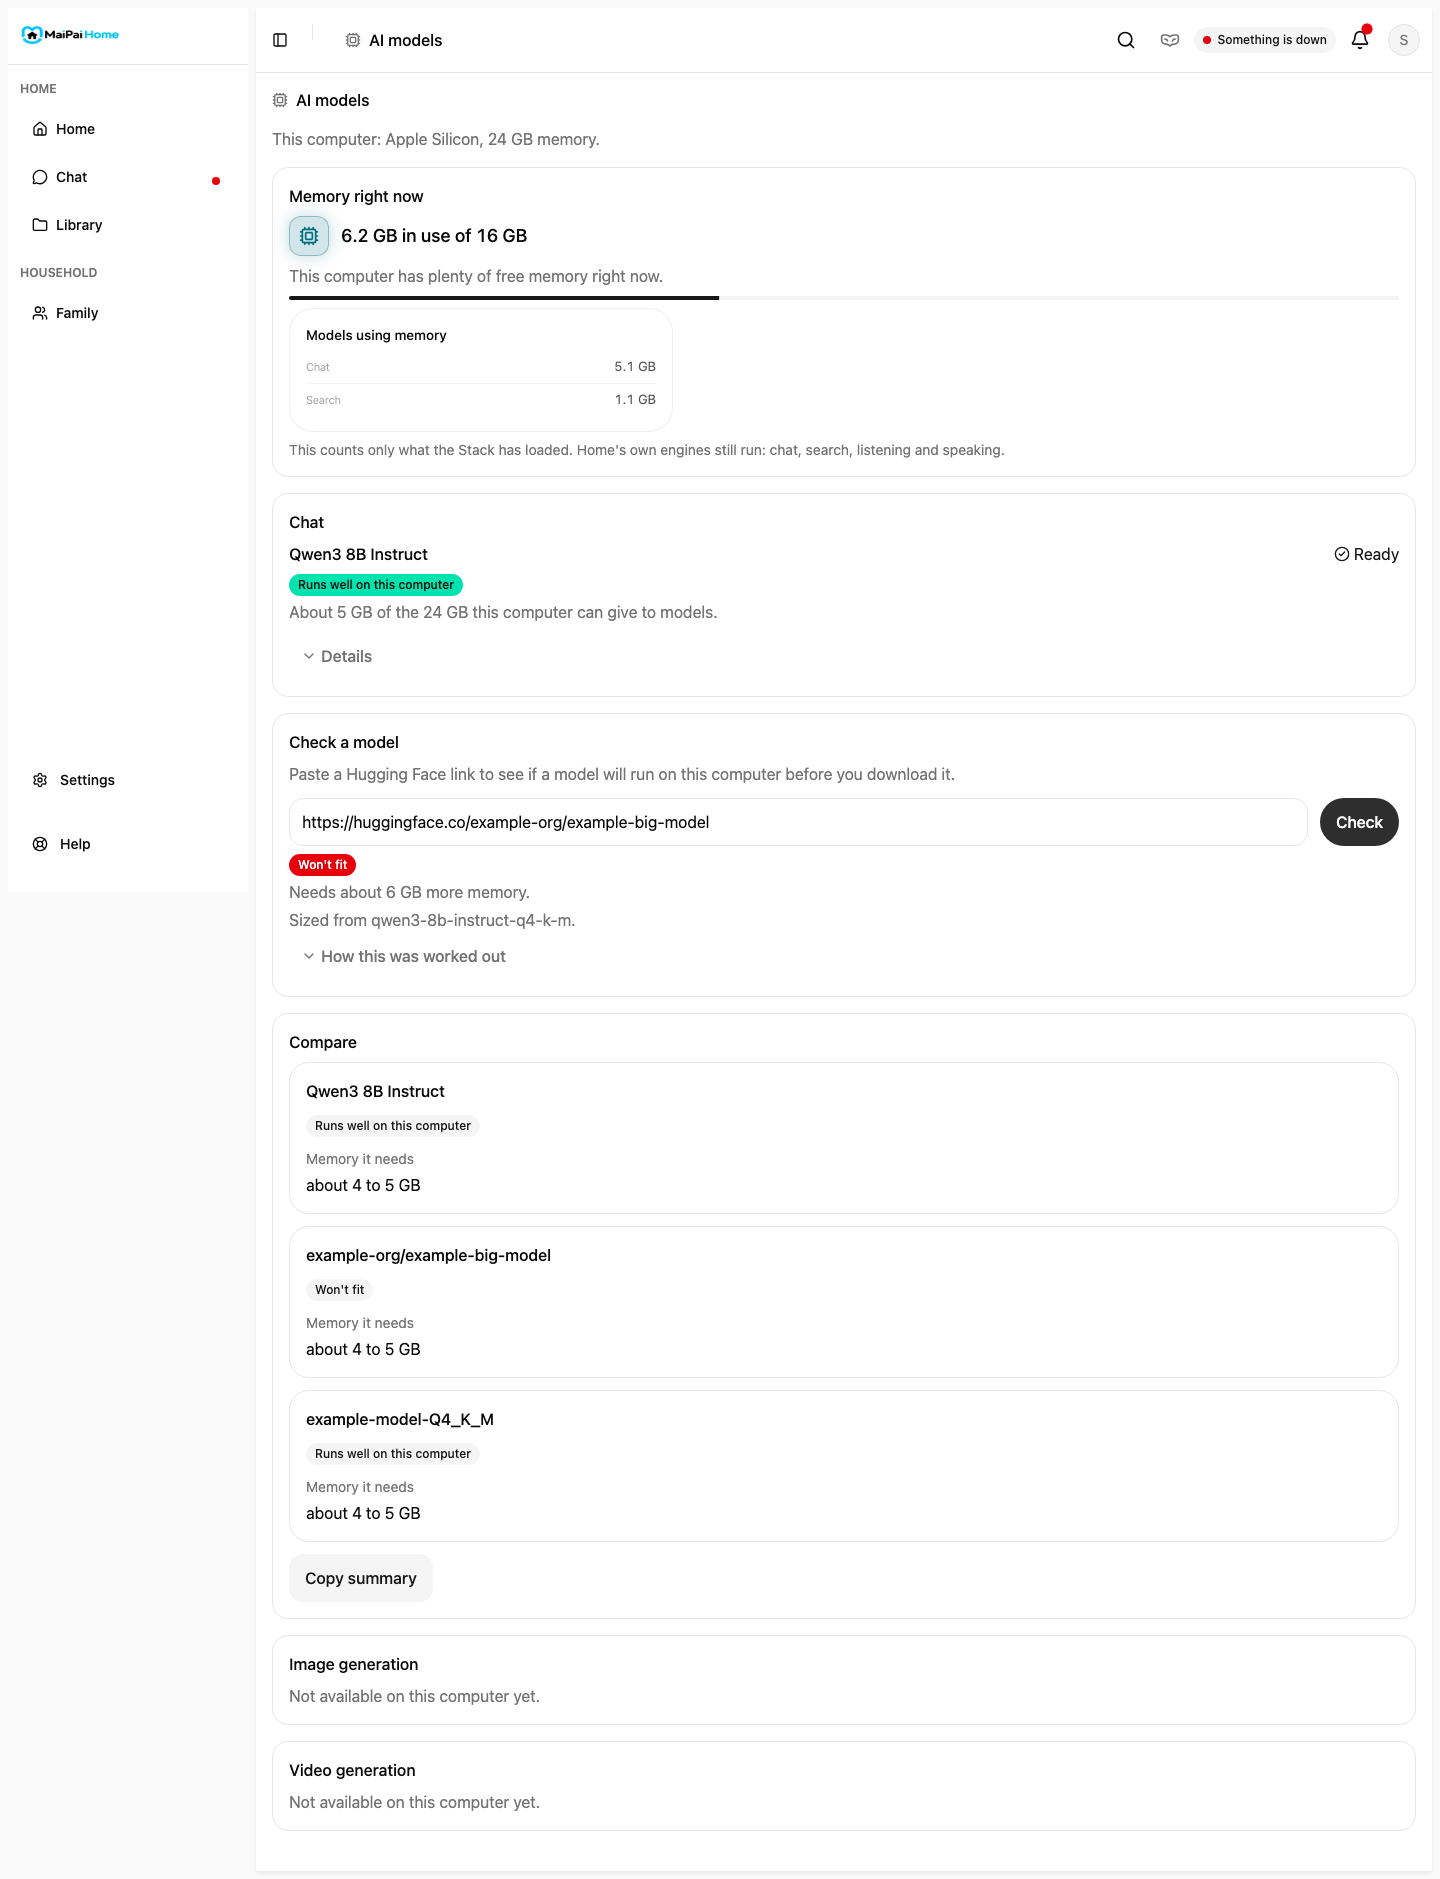
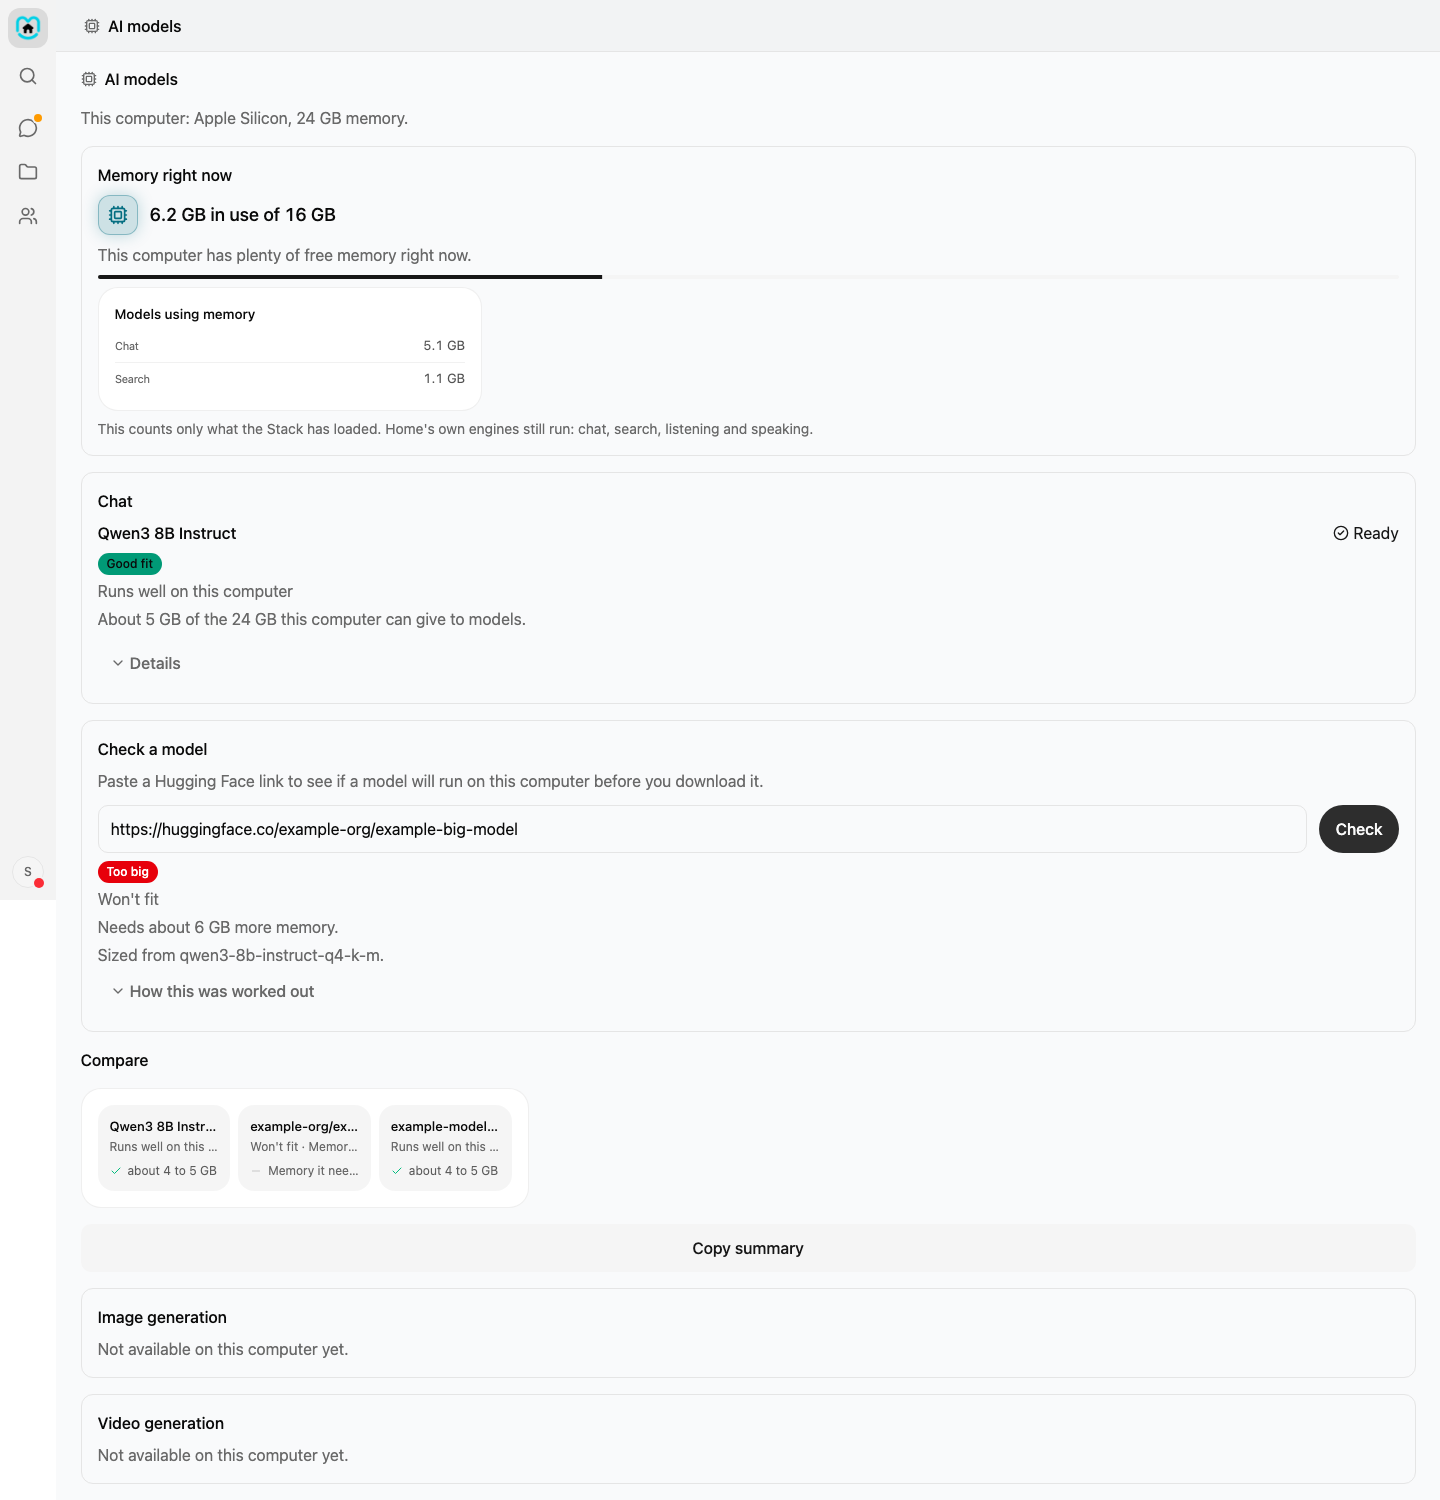
Adopt ComparisonCard on AI models page

diff --git a/frontend/src/apps/settings/ModelsSection.tsx b/frontend/src/apps/settings/ModelsSection.tsx
@@ -6,12 +6,12 @@ import { Input } from "@maipai/ui/src/ui/input";
 import { Textarea } from "@maipai/ui/src/ui/textarea";
 import { getIcon } from "@maipai/ui/src/icons";
 import { IconTile } from "@maipai/ui/src/primitives/IconTile";
+import { ComparisonCard } from "@maipai/ui/src/elements/comparison-card";
 import { api, ApiError, type HardwareInfo, type ModelFit } from "@/lib/api";
 import { formatBytes } from "@/apps/settings/formatBytes";
 import { useFitPlan } from "@/lib/useFitPlan";
 import { modelLinkName, parseModelLink } from "@/lib/modelLink";
 import { SpecSheet } from "@maipai/ui/src/elements/spec-sheet";
-import { Card } from "@maipai/ui/src/ui/card";
 import { Alert, AlertDescription, AlertTitle } from "@maipai/ui/src/dashboard/components/ui/alert";
 import { describeFitPlan, describeHomeOwnedRoles, fitBadgeWord, fitSourceSentence, type FitPanelRow } from "@/lib/fitPanel";
 import type { ComputerMemoryResponse } from "@/lib/api";
@@ -84,7 +84,7 @@ export function ModelsSection() {
             fitPlan={recommendedFit}
           />
           <CheckModelCard onChecked={(name, response) => setChecked((items) => [{ name, response }, ...items.filter((item) => item.name !== name)].slice(0, 3))} />
-          {recommended ? <CompareCard recommended={{ name: recommended.model.label, response: recommendedFit.response?.plan ? recommendedFit.response : null }} checked={checked} hardware={hardware} /> : null}
+          {recommended ? <ModelComparison recommended={{ name: recommended.model.label, response: recommendedFit.response?.plan ? recommendedFit.response : null }} checked={checked} hardware={hardware} /> : null}
           <PlannedRoleCard title="Image generation" fits={imageFits} />
           <PlannedRoleCard title="Video generation" fits={videoFits} />
         </div>
@@ -224,7 +224,7 @@ function FitPanel({ response }: { response: FitPlanResponse }) {
   return <div className="flex flex-col gap-3 pt-2"><SpecSheet title="Fit details" rows={rows.map(({ label, value }) => ({ label, value }))} visibleCount={rows.length} />{rows.filter((row) => row.source).map((row) => <FitSource key={row.label} row={row} />)}{remedy ? <Alert><AlertTitle>What would help?</AlertTitle><AlertDescription>{remedy}</AlertDescription></Alert> : null}</div>;
 }
 
-function CompareCard({ recommended, checked, hardware }: { recommended: { name: string; response: FitPlanResponse | null }; checked: Array<{ name: string; response: FitPlanResponse }>; hardware: HardwareInfo | null }) {
+function ModelComparison({ recommended, checked, hardware }: { recommended: { name: string; response: FitPlanResponse | null }; checked: Array<{ name: string; response: FitPlanResponse }>; hardware: HardwareInfo | null }) {
   const [copied, setCopied] = useState(false);
   const [copyFailed, setCopyFailed] = useState(false);
   const timer = useRef<ReturnType<typeof setTimeout> | null>(null);
@@ -234,19 +234,11 @@ function CompareCard({ recommended, checked, hardware }: { recommended: { name: 
     ...checked.filter((item) => item.response.plan !== null),
   ];
   if (comparable.length < 2) return null;
-  const cards = comparable.map((item) => {
+  const options = comparable.map((item, index) => {
     const need = describeFitPlan(item.response.plan!).rows.find((row) => row.label === "Memory it needs")?.value ?? "Not known yet";
-    return (
-      <Card key={item.name} className="gap-3 p-4">
-        <h4 className="break-words text-base font-medium">{item.name}</h4>
-        <FitVerdictBadge verdict={item.response.wording.verdict} />
-        <p className="text-sm text-[var(--muted-foreground)]">{item.response.wording.headline}</p>
-        <div className="flex flex-col gap-1">
-          <span className="text-sm text-[var(--muted-foreground)]">Memory it needs</span>
-          <span className="break-words text-base tabular-nums">{need}</span>
-        </div>
-      </Card>
-    );
+    const verdict = item.response.wording.verdict;
+    const headline = verdict === "yes" ? item.response.wording.headline : `${item.response.wording.headline} · Memory it needs: ${need}`;
+    return { id: `${index}-${item.name}`, name: item.name, headline, traits: [verdict === "yes" ? need : false as const] };
   });
   const usableGb = recommended.response?.plan?.cap.high === null || recommended.response?.plan?.cap.high === undefined
     ? null
@@ -269,13 +261,12 @@ function CompareCard({ recommended, checked, hardware }: { recommended: { name: 
     }
   }
   return (
-    <RoleCardShell title="Compare">
-      <div className="flex flex-col gap-3">
-        <div data-slot="compare-models" className="flex flex-col gap-3">{cards}</div>
-        <Button type="button" variant="secondary" className="w-fit" onClick={() => void copySummary()}>{copied ? "Copied" : "Copy summary"}</Button>
-        {copyFailed ? <div className="flex flex-col gap-2"><p className="text-base text-[var(--muted-foreground)]">Could not copy. Select the text below instead.</p><Textarea aria-label="Summary to copy" readOnly rows={Math.min(12, summary.split("\n").length)} value={summary} /></div> : null}
-      </div>
-    </RoleCardShell>
+    <>
+      <h2 className="text-base font-medium">Compare</h2>
+      <ComparisonCard traitLabels={["Memory it needs"]} options={options} />
+      <Button type="button" variant="secondary" onClick={() => void copySummary()}>{copied ? "Copied" : "Copy summary"}</Button>
+      {copyFailed ? <div className="flex flex-col gap-2"><p className="text-base text-[var(--muted-foreground)]">Could not copy. Select the text below instead.</p><Textarea aria-label="Summary to copy" readOnly rows={Math.min(12, summary.split("\n").length)} value={summary} /></div> : null}
+    </>
   );
 }
 

diff --git a/frontend/src/apps/settings/ModelsSection.test.tsx b/frontend/src/apps/settings/ModelsSection.test.tsx
@@ -125,10 +125,10 @@ describe("ModelsSection", () => {
       fireEvent.change(input, { target: { value: "https://huggingface.co/example-org/second-model" } });
       await act(async () => { fireEvent.click(getByRole("button", { name: "Check" })); });
       await findByText("example-org/second-model");
-      expect(document.querySelectorAll('[data-slot="compare-models"] [data-slot="card"]')).toHaveLength(3);
-      expect(document.querySelector('[data-slot="compare-models"]')?.textContent).toContain("Qwen3 8B Instruct");
-      expect(document.querySelector('[data-slot="compare-models"]')?.textContent).toContain("example-model-Q4_K_M");
-      expect(document.querySelector('[data-slot="compare-models"]')?.textContent).toContain("example-org/second-model");
+      expect(document.querySelectorAll('[data-slot="comparison-card"]')).toHaveLength(1);
+      expect(document.querySelector('[data-slot="comparison-card"]')?.textContent).toContain("Qwen3 8B Instruct");
+      expect(document.querySelector('[data-slot="comparison-card"]')?.textContent).toContain("example-model-Q4_K_M");
+      expect(document.querySelector('[data-slot="comparison-card"]')?.textContent).toContain("example-org/second-model");
     } finally { restore(); }
   });
 
@@ -142,7 +142,8 @@ describe("ModelsSection", () => {
         await act(async () => { fireEvent.click(getByRole("button", { name: "Check" })); });
         await findByText("example-model-Q4_K_M");
       }
-      expect(document.querySelectorAll('[data-slot="compare-models"] [data-slot="card"]')).toHaveLength(2);
+      expect(document.querySelectorAll('[data-slot="comparison-card"]')).toHaveLength(1);
+      expect(document.querySelectorAll('[data-slot="comparison-card"] > div > div')).toHaveLength(2);
     } finally { restore(); }
   });
 
@@ -151,7 +152,7 @@ describe("ModelsSection", () => {
     try {
       const { findByText } = render(<ModelsSection />);
       await findByText("This computer: Apple Silicon, 24 GB memory.");
-      expect(document.querySelector('[data-slot="compare-models"]')).toBeNull();
+      expect(document.querySelector('[data-slot="comparison-card"]')).toBeNull();
     } finally { restore(); }
   });
 
@@ -171,10 +172,13 @@ describe("ModelsSection", () => {
         "example-model-Q4_K_M", "Runs well on this computer",
         "example-org/example-big-model", "Won't fit",
       ]) expect(text).toContain(expected);
-      const noCard = Array.from(document.querySelectorAll('[data-slot="compare-models"] [data-slot="card"]')).find((card) => card.textContent?.includes("example-org/example-big-model"));
-      expect(noCard).toBeDefined();
-      expect(noCard?.textContent).not.toContain("pick");
-      expect(noCard?.querySelector("svg")).toBeNull();
+      const comparison = document.querySelector('[data-slot="comparison-card"]');
+      const noOption = Array.from(comparison?.querySelectorAll(":scope > div > div") ?? []).find((option) => option.textContent?.includes("example-org/example-big-model"));
+      expect(noOption).toBeDefined();
+      expect(noOption?.textContent).toContain("Won't fit");
+      expect(noOption?.textContent).toContain("Memory it needs:");
+      expect(noOption?.textContent).not.toContain("pick");
+      expect(noOption?.querySelector("svg")?.getAttribute("class")).not.toContain("emerald-500");
     } finally { restore(); }
   });
 

diff --git a/scripts/screenshot.ts b/scripts/screenshot.ts
@@ -2202,9 +2202,9 @@ async function captureFitVerdictCard(browser: Browser, sessionValue: string, vie
       await page.getByRole("heading", { name: "Compare", exact: true }).waitFor();
       await page.getByText("Needs about 6 GB more memory.", { exact: true }).waitFor();
       await settleAnimations(page);
-      const screenshot = `fit-compare-${viewport.slug}-light.png`;
+      const screenshot = `fit-compare-${viewport.slug}-${theme}.png`;
       await page.screenshot({ path: join(SCREENS_DIR, screenshot), fullPage: true });
-      dedicatedScreenshots.push({ file: screenshot, route: "settings-models-fit-compare", viewport: viewport.slug, theme: "light" });
+      dedicatedScreenshots.push({ file: screenshot, route: "settings-models-fit-compare", viewport: viewport.slug, theme });
       return;
     }
     if (state === "checked-yes" || state === "checked-no" || state === "checked-error" || state === "checked-notfound" || state === "checked-nostack" || state === "checked-unknown") {
@@ -2245,14 +2245,14 @@ async function captureFitVerdictCard(browser: Browser, sessionValue: string, vie
       dedicatedScreenshots.push({ file: tightShot, route: "settings-models-computer-memory", viewport: viewport.slug, theme });
       return;
     }
-    if ((state === "yes" || state === "no") && theme === "light") {
+    if (state === "yes" || state === "no") {
       await page.getByRole("button", { name: "Details", exact: true }).click();
       await page.getByText("Memory it needs", { exact: true }).waitFor();
       if (state === "no") await page.getByText(/It needs about 6 GB more memory\./).waitFor();
       await settleAnimations(page);
-      const panelShot = `fit-panel-${state}-${viewport.slug}-light.png`;
+      const panelShot = `fit-panel-${state}-${viewport.slug}-${theme}.png`;
       await page.screenshot({ path: join(SCREENS_DIR, panelShot), fullPage: true });
-      dedicatedScreenshots.push({ file: panelShot, route: "settings-models-fit-panel", viewport: viewport.slug, theme: "light" });
+      dedicatedScreenshots.push({ file: panelShot, route: "settings-models-fit-panel", viewport: viewport.slug, theme });
     }
   } finally {
     await context.close();
@@ -9540,6 +9540,7 @@ async function main() {
         for (const state of ["yes", "no"] as const) {
           await captureFitVerdictCard(browser, sessionValue, viewport, "dark", state);
         }
+        await captureFitVerdictCard(browser, sessionValue, viewport, "dark", "compare");
       }
       console.log("completed named review: --fit-verdict-review");
       return;

diff --git a/docs/design/ELEMENTS-DECISIONS.md b/docs/design/ELEMENTS-DECISIONS.md
@@ -49,7 +49,7 @@ reason; its status is `being removed` and it points at its item in the ELEMENTS 
 | ED-016 | terminal-block | None; kept in the gallery | Nothing streams command output | Owner, 2026-10-06 (Q8) | An update or backup run log | active exception |
 | ED-017 | edit-message, message-actions, message-branches, scroll-anchor (standalone demos) | None; the kit `Thread` renders the runtime forms (`EditComposer`, `AssistantActionBar`, `BranchPicker`, `ThreadScrollToBottom`) | `elements-adoption.json` verdict reasons: the standalone files are demos of jobs the adopted Thread already does (scroll-anchor ships a `setInterval` demo) | ELT-SCANNER-01 audit (2026-10-06) | None needed: the Element is used, through Thread | active exception |
 | ED-018 | data-table | `shell/components/DataTable.tsx` (12 callers, 240 lines) | The kit `data-table` is a fixed `ModelUsage` demo, not upstream's `{columns, rows, sort, formats, card view}` (master plan D05, D06) | Audit set D (2026-10-06) | Kit K02 refresh, then ELT-T1-13a to 13d, delete in 13d | being removed |
-| ED-019 | comparison-card | `CompareCard`, `apps/settings/ModelsSection.tsx:227-296` | HOME-FIT-04's row names `comparison-card`; the kit lacked optional `recommendedId` and `reason` until K03 (ui-v0.5.116) | Audit set D (2026-10-06) | ELT-T1-10 | being removed |
+| ED-019 | comparison-card | `CompareCard`, `apps/settings/ModelsSection.tsx:227-296` | HOME-FIT-04's row names `comparison-card`; the kit lacked optional `recommendedId` and `reason` until K03 (ui-v0.5.116) | Audit set D (2026-10-06) | ELT-T1-10 | removed |
 | ED-020 | recommendation-card, spec-sheet | `FitPanel` and `DetailsFitPanel`, `apps/settings/ModelsSection.tsx` | HOME-FIT-03 landed with hand text where `recommendation-card` ships (audit set D) | Audit set D (2026-10-06) | ELT-T1-10 | being removed |
 | ED-021 | model-picker | `ChatModelCard`, `CheckModelCard`, `PlannedRoleCard`, `apps/settings/ModelsSection.tsx` | HOME-FIT-02's row names `model-picker`; the kit needed `status`, `reason` and optional `price` (K03) | Audit set B (2026-10-06) | ELT-T1-10b | being removed |
 | ED-022 | task-card, background-inbox | `ChatActivityCard`, `apps/chat/ChatActivityCard.tsx` (Alert plus Progress rows) | Audit: the hand-built activity card is in the hand-built chat baseline; `/api/jobs` data exists for `TaskCard` | Master plan D06 (2026-10-06) | ELT-T1-11 | being removed |
